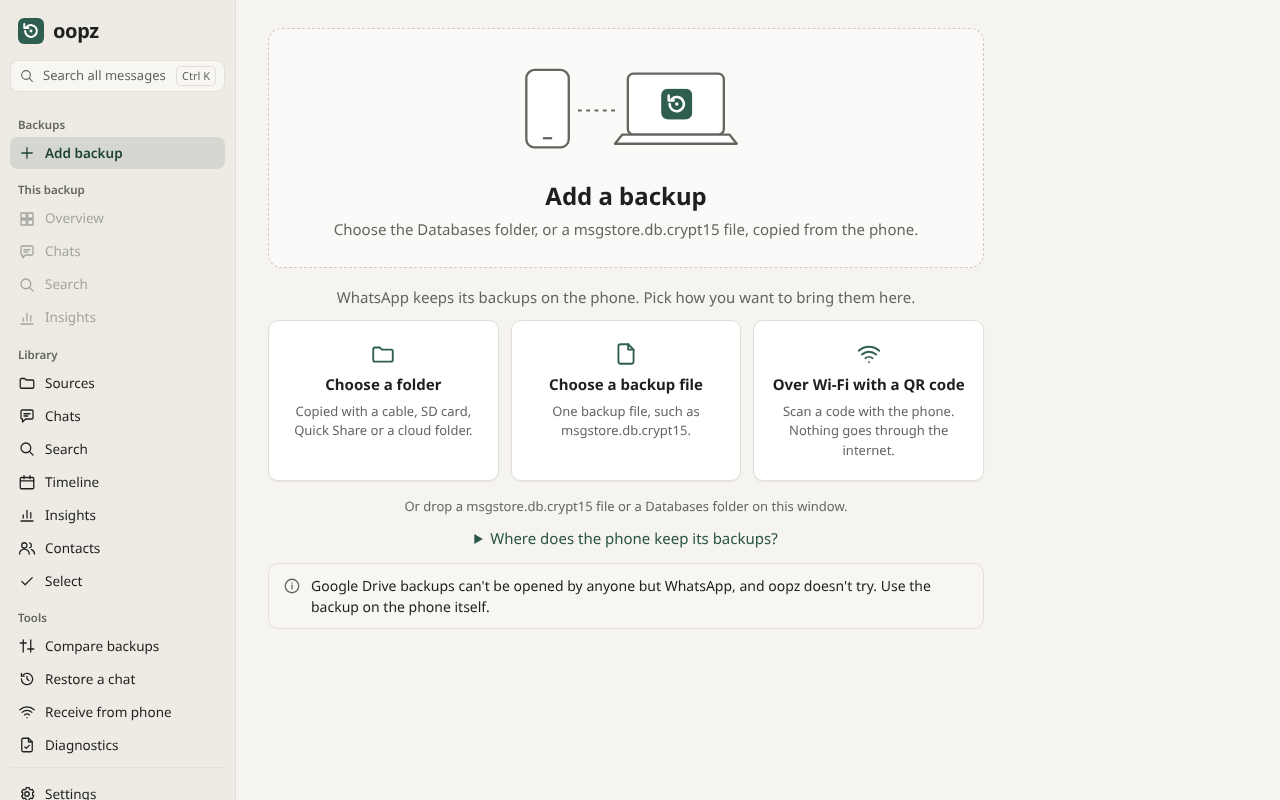
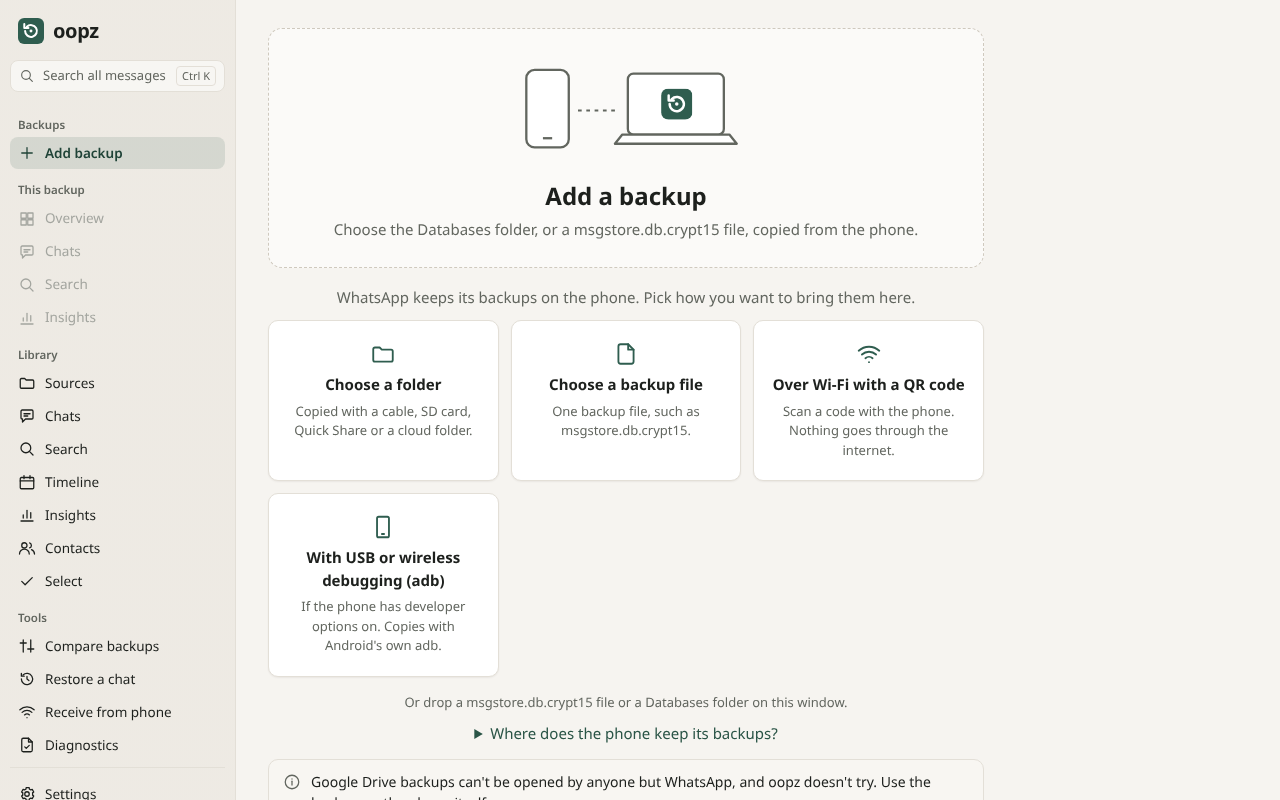
Guide: the adb download, the Wi-Fi tips and address, the oopz command; pictures retaken
The TODO sections now name the real buttons, three new pictures (receive-tips, adb-copy, adb-get), and every picture redone after the UI changes (adb card, privacy text, address picker).

diff --git a/docs/guide/es.md b/docs/guide/es.md
@@ -83,6 +83,12 @@ página solo existe en tu Wi-Fi, durante unos minutos y mientras esta pantalla s
 
 ![El código QR, esperando al teléfono](images/es/receive-qr.png)
 
+La página funciona sin internet: el ordenador y el teléfono solo tienen que compartir una red, aunque sea un router
+sin internet. Sin Wi-Fi cerca, activa el punto de acceso del teléfono y conecta el ordenador a él (no gasta datos
+móviles). Si el ordenador tiene varias tarjetas de red, elige la de Wi-Fi en **Dirección**; las marcadas «¿virtual?»
+(WSL, Docker, VPN) casi nunca funcionan. Cuando el teléfono carga la página, oopz dice **El teléfono abrió la
+página**.
+
 Si el teléfono no consigue abrir la página:
 
 - Los dos tienen que estar en **la misma Wi-Fi**. Quita un momento los datos móviles del teléfono para que no lo
@@ -96,8 +102,9 @@ Si el teléfono no consigue abrir la página:
 - Escribe a mano en el navegador del teléfono la dirección que aparece bajo el código, tal cual, con `http://`.
 - ¿Sigue sin ir? Usa un cable, o adb (abajo).
 
-<!-- TODO captura: receive-tips — los consejos de Wi-Fi en la pantalla Recibir (los está añadiendo otro agente).
-Añade una entrada en apps/desktop/scripts/screenshots.config.mjs y muéstrala aquí. -->
+Si en 45 segundos el teléfono no llega, los mismos consejos salen en la pantalla:
+
+![Los consejos de Wi-Fi, cuando el teléfono no ha abierto la página](images/es/receive-tips.png)
 
 ### Copiar con adb (USB o depuración inalámbrica)
 
@@ -107,13 +114,24 @@ el teléfono no aparece como unidad o la página Wi-Fi no conecta.
 1. En el teléfono: Ajustes › Información del teléfono, toca siete veces **Número de compilación**. Después, en
    Ajustes › Opciones para desarrolladores, activa **Depuración USB** (o **Depuración inalámbrica**, desde Android 11,
    en la misma Wi-Fi que el ordenador).
-2. Conecta: con cable, enchúfalo y permite el ordenador en el teléfono. Sin cable, toca **Vincular dispositivo con
-   código de vinculación** en el teléfono y dale a oopz (o a `adb pair`) la dirección y el código que muestra.
-3. En oopz, elige **Copiar con adb**: busca las copias de WhatsApp en el teléfono, las copia a una carpeta nueva y te
-   ofrece abrirlas.
+2. En oopz: **Añadir copia › Con depuración USB o inalámbrica (adb)**.
+3. La primera vez, si este ordenador no tiene adb, oopz se ofrece a traerlo: **Ver la licencia de Google** muestra la
+   versión, el tamaño y la licencia de Google; **Aceptar y descargar** baja las platform-tools de Android desde Google
+   (una vez, unos 8–17 MB), comprueba el archivo con la suma de control de Google y lo guarda en la carpeta de oopz.
+   No se descarga nada antes de aceptar. **Ajustes › General › adb de Android (platform-tools) › Quitar** lo borra.
+4. Conecta el teléfono. Con cable: enchúfalo y toca **Permitir** en el teléfono. Sin cable: abre **Depuración
+   inalámbrica** en oopz, toca **Vincular dispositivo con código de vinculación** en el teléfono, escribe la dirección,
+   el puerto y el código que muestra, luego la dirección y el puerto de «Dirección IP y puerto», y **Conectar**.
+5. Elige el teléfono, marca **Media** si quieres también fotos y vídeos, y **Elegir dónde copiar**. oopz copia la
+   carpeta de WhatsApp a una carpeta nueva, comprueba el tamaño de cada archivo, no deja nada a medias y te ofrece
+   **Usar los archivos copiados**.
 
-<!-- TODO captura: adb-copy — la pantalla «Copiar con adb» (la está añadiendo otro agente). Añade una entrada en
-apps/desktop/scripts/screenshots.config.mjs y muéstrala aquí. -->
+![Sin adb todavía: la licencia de Google, antes de descargar nada](images/es/adb-get.png)
+
+![Copiar con adb: los teléfonos que ve adb](images/es/adb-copy.png)
+
+En la línea de comandos: `oopz pull --out-dir CARPETA` (añade `--media`, `--business`, o `--pair HOST:PUERTO --code
+CÓDIGO` y `--connect HOST:PUERTO` para la depuración inalámbrica). Usa el adb que descargó oopz si no hay otro.
 
 Sin oopz, la misma copia a mano:
 
@@ -338,8 +356,7 @@ El comando `oopz` hace lo mismo que la app, en una terminal; muestra recuentos, 
 texto de los mensajes. Los instaladores lo dejan en tu `PATH`; con la AppImage o en macOS, usa **Ajustes › Instalar
 el comando oopz**.
 
-<!-- TODO captura: settings-cli — el botón «Instalar el comando oopz» de Ajustes (lo está añadiendo otro agente).
-Añade una entrada en apps/desktop/scripts/screenshots.config.mjs y muéstrala aquí. -->
+![Ajustes › General, con la fila del comando oopz (AppImage)](images/es/settings.png)
 
 ```sh
 oopz backups --dir Databases/          # ¿se abren todas y están sanas?

diff --git a/docs/guide/en.md b/docs/guide/en.md
@@ -82,6 +82,11 @@ a few minutes, and only while this screen is open.
 
 ![The QR code, waiting for the phone](images/en/receive-qr.png)
 
+The page works with no internet at all: the computer and the phone only need to share a network, even a router
+with no internet. With no Wi-Fi around, switch on the phone's hotspot and join the computer to it (no mobile data is
+used). If the computer has several network cards, pick the Wi-Fi one under **Address**; the ones marked "virtual?"
+(WSL, Docker, VPN) rarely work. Once the phone loads the page, oopz says **The phone opened the page**.
+
 If the phone can't open the page:
 
 - Both must be on the **same Wi-Fi**. Switch off mobile data on the phone for a moment, so it doesn't try that way.
@@ -93,8 +98,9 @@ If the phone can't open the page:
 - Type the address shown under the code into the phone's browser by hand, exactly, `http://` included.
 - Still nothing? Use a cable, or adb below.
 
-<!-- TODO shot: receive-tips — the Wi-Fi tips on the Receive screen (another agent is adding them). Add an entry to
-apps/desktop/scripts/screenshots.config.mjs and show it here. -->
+After 45 seconds without the phone, the same tips show on the screen:
+
+![The Wi-Fi tips, when the phone hasn't opened the page](images/en/receive-tips.png)
 
 ### Copy with adb (USB or wireless debugging)
 
@@ -103,13 +109,24 @@ doesn't show up as a drive, or the Wi-Fi page won't connect.
 
 1. On the phone: Settings › About phone, tap **Build number** seven times. Then Settings › Developer options, switch
    on **USB debugging** (or **Wireless debugging**, Android 11 and newer, same Wi-Fi as the computer).
-2. Connect: with a cable, plug it in and allow the computer on the phone. Wirelessly, tap **Pair device with pairing
-   code** on the phone, and give oopz (or `adb pair`) the address and code it shows.
-3. In oopz, choose **Copy with adb**: it finds WhatsApp's backups on the phone and copies them into a new folder,
-   then offers to open them.
+2. In oopz: **Add backup › With USB or wireless debugging (adb)**.
+3. The first time, if this computer has no adb, oopz offers to get it: **Show Google's licence** shows the version,
+   the size and Google's licence; **Accept and download** fetches Android's platform-tools from Google (once, about
+   8–17 MB), checks the file against Google's own checksum, and keeps it in oopz's folder. Nothing is downloaded
+   before you accept. **Settings › General › Android's adb (platform-tools) › Remove** deletes it again.
+4. Connect the phone. With a cable: plug it in and tap **Allow** on the phone. Wirelessly: open **Wireless
+   debugging** in oopz, tap **Pair device with pairing code** on the phone, type the address, port and code it shows,
+   then the address and port under "IP address & port", and **Connect**.
+5. Pick the phone, tick **Media** if you want photos and videos too, and **Choose where to copy**. oopz copies
+   WhatsApp's folder into a new folder, checks every file's size, keeps nothing half-copied, and offers **Use the
+   copied files**.
 
-<!-- TODO shot: adb-copy — the "Copy with adb" screen (another agent is adding it). Add an entry to
-apps/desktop/scripts/screenshots.config.mjs and show it here. -->
+![No adb yet: Google's licence, before anything is downloaded](images/en/adb-get.png)
+
+![Copying with adb: the phones adb sees](images/en/adb-copy.png)
+
+On the command line: `oopz pull --out-dir FOLDER` (add `--media`, `--business`, or `--pair HOST:PORT --code CODE`
+and `--connect HOST:PORT` for wireless debugging). It uses the adb oopz downloaded if there's no other.
 
 Without oopz, the same copy by hand:
 
@@ -323,8 +340,7 @@ decides and takes that risk. Keep the original backup and the moved-aside folder
 The `oopz` command does what the app does, in a terminal; it prints counts, dates and masked ids, never message
 text. The installers put it on your `PATH`; with the AppImage or on macOS, use **Settings › Install the oopz command**.
 
-<!-- TODO shot: settings-cli — the "Install the oopz command" button in Settings (another agent is adding it). Add an
-entry to apps/desktop/scripts/screenshots.config.mjs and show it here. -->
+![Settings › General, with the oopz command row (AppImage)](images/en/settings.png)
 
 ```sh
 oopz backups --dir Databases/          # do they all open, and are they sound?
